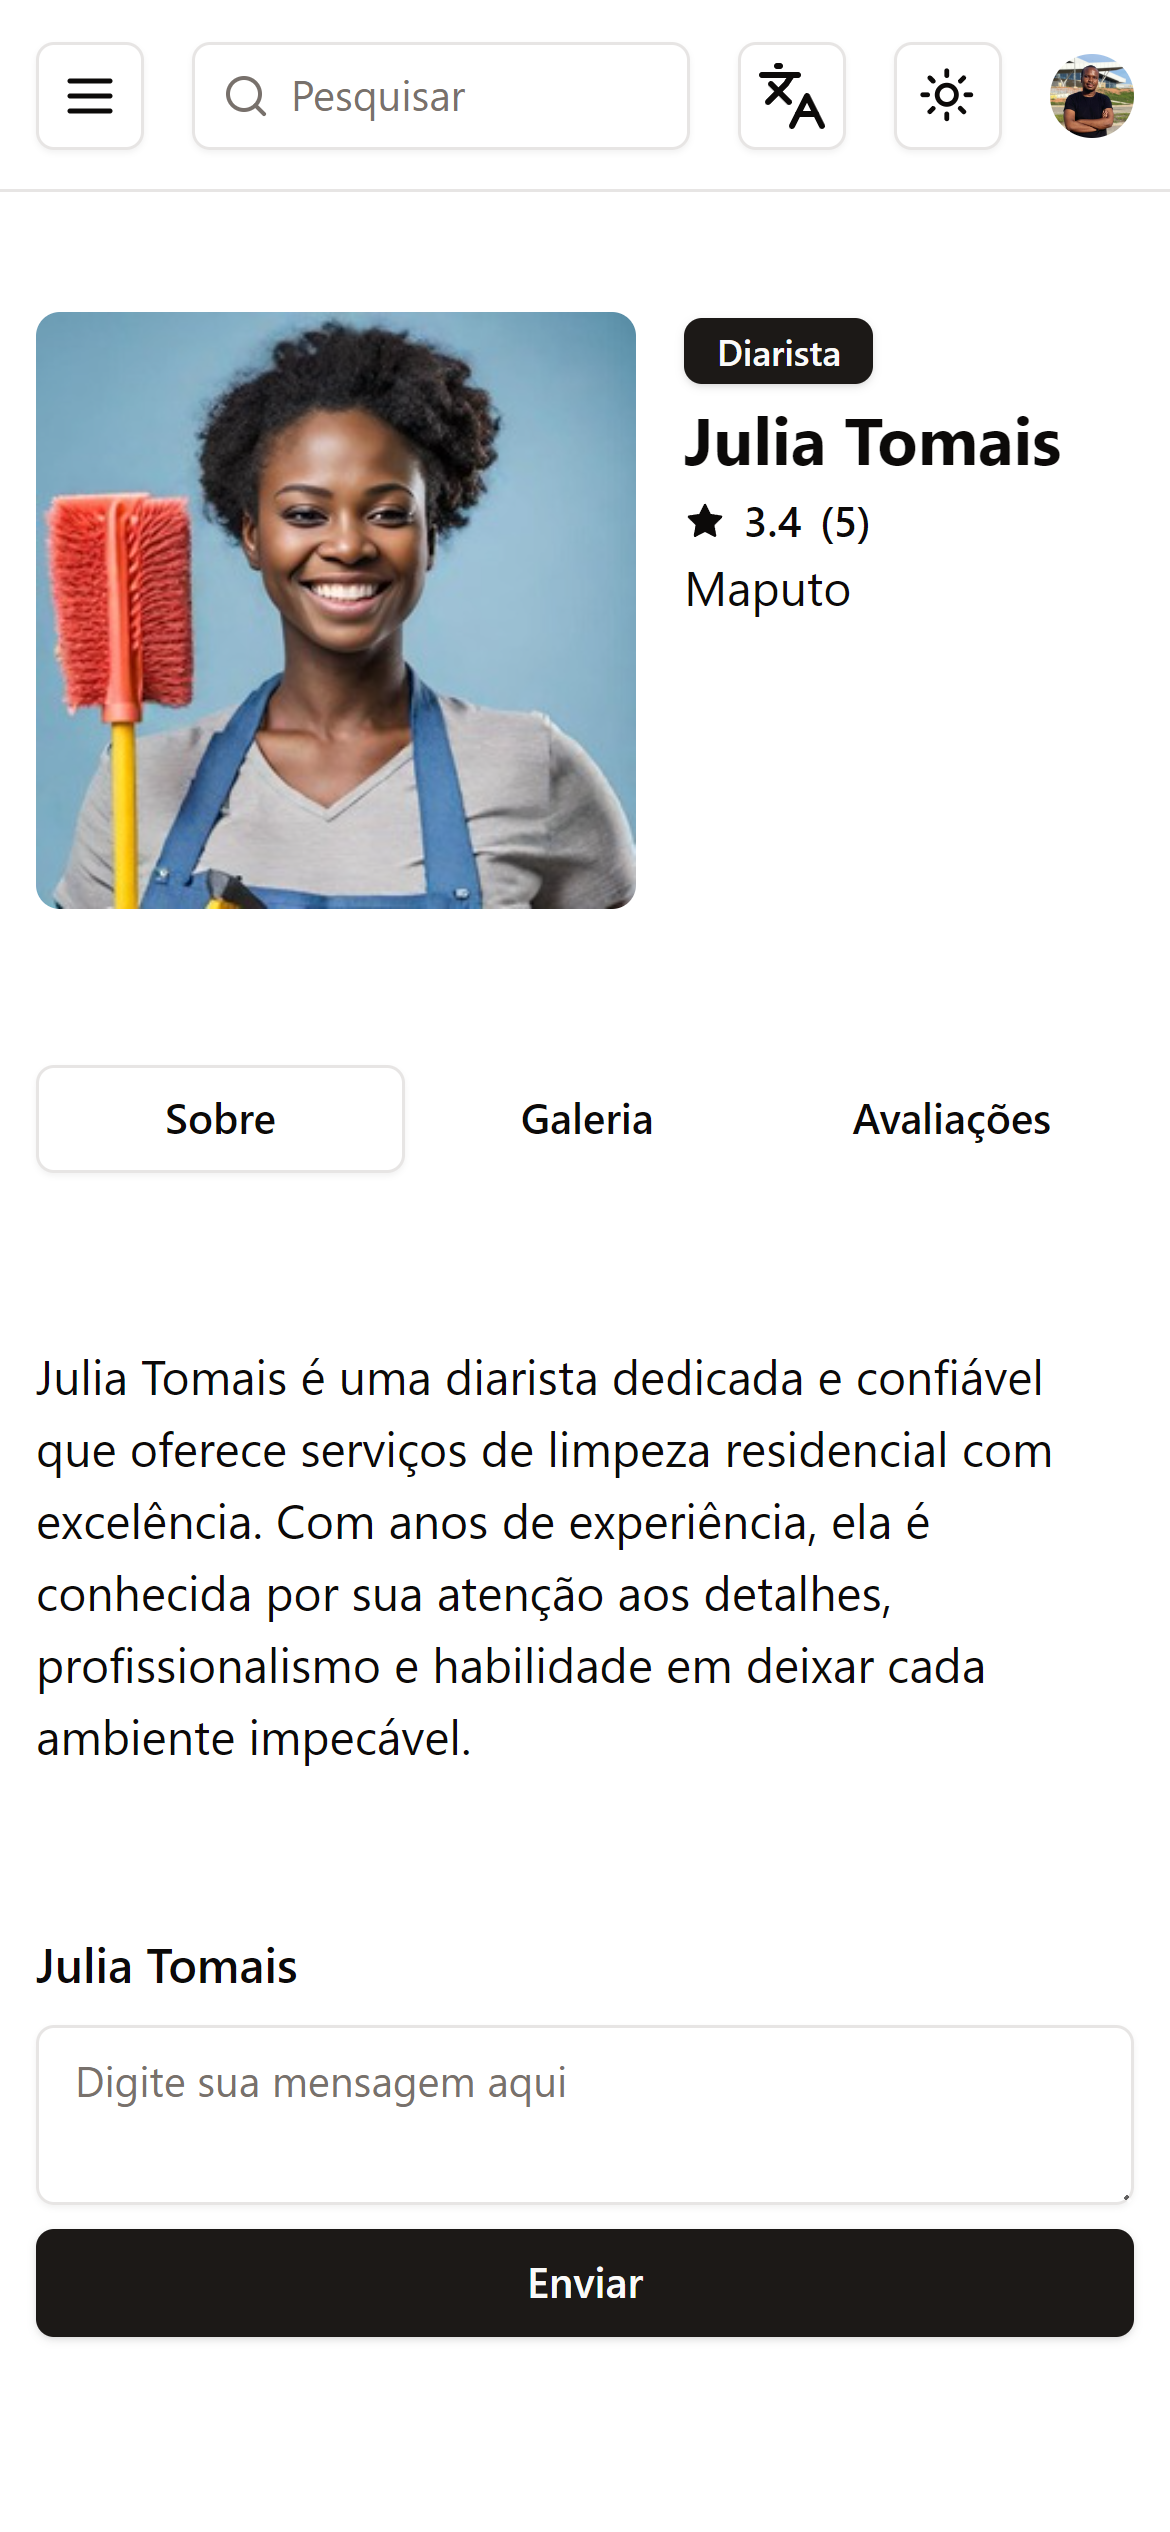
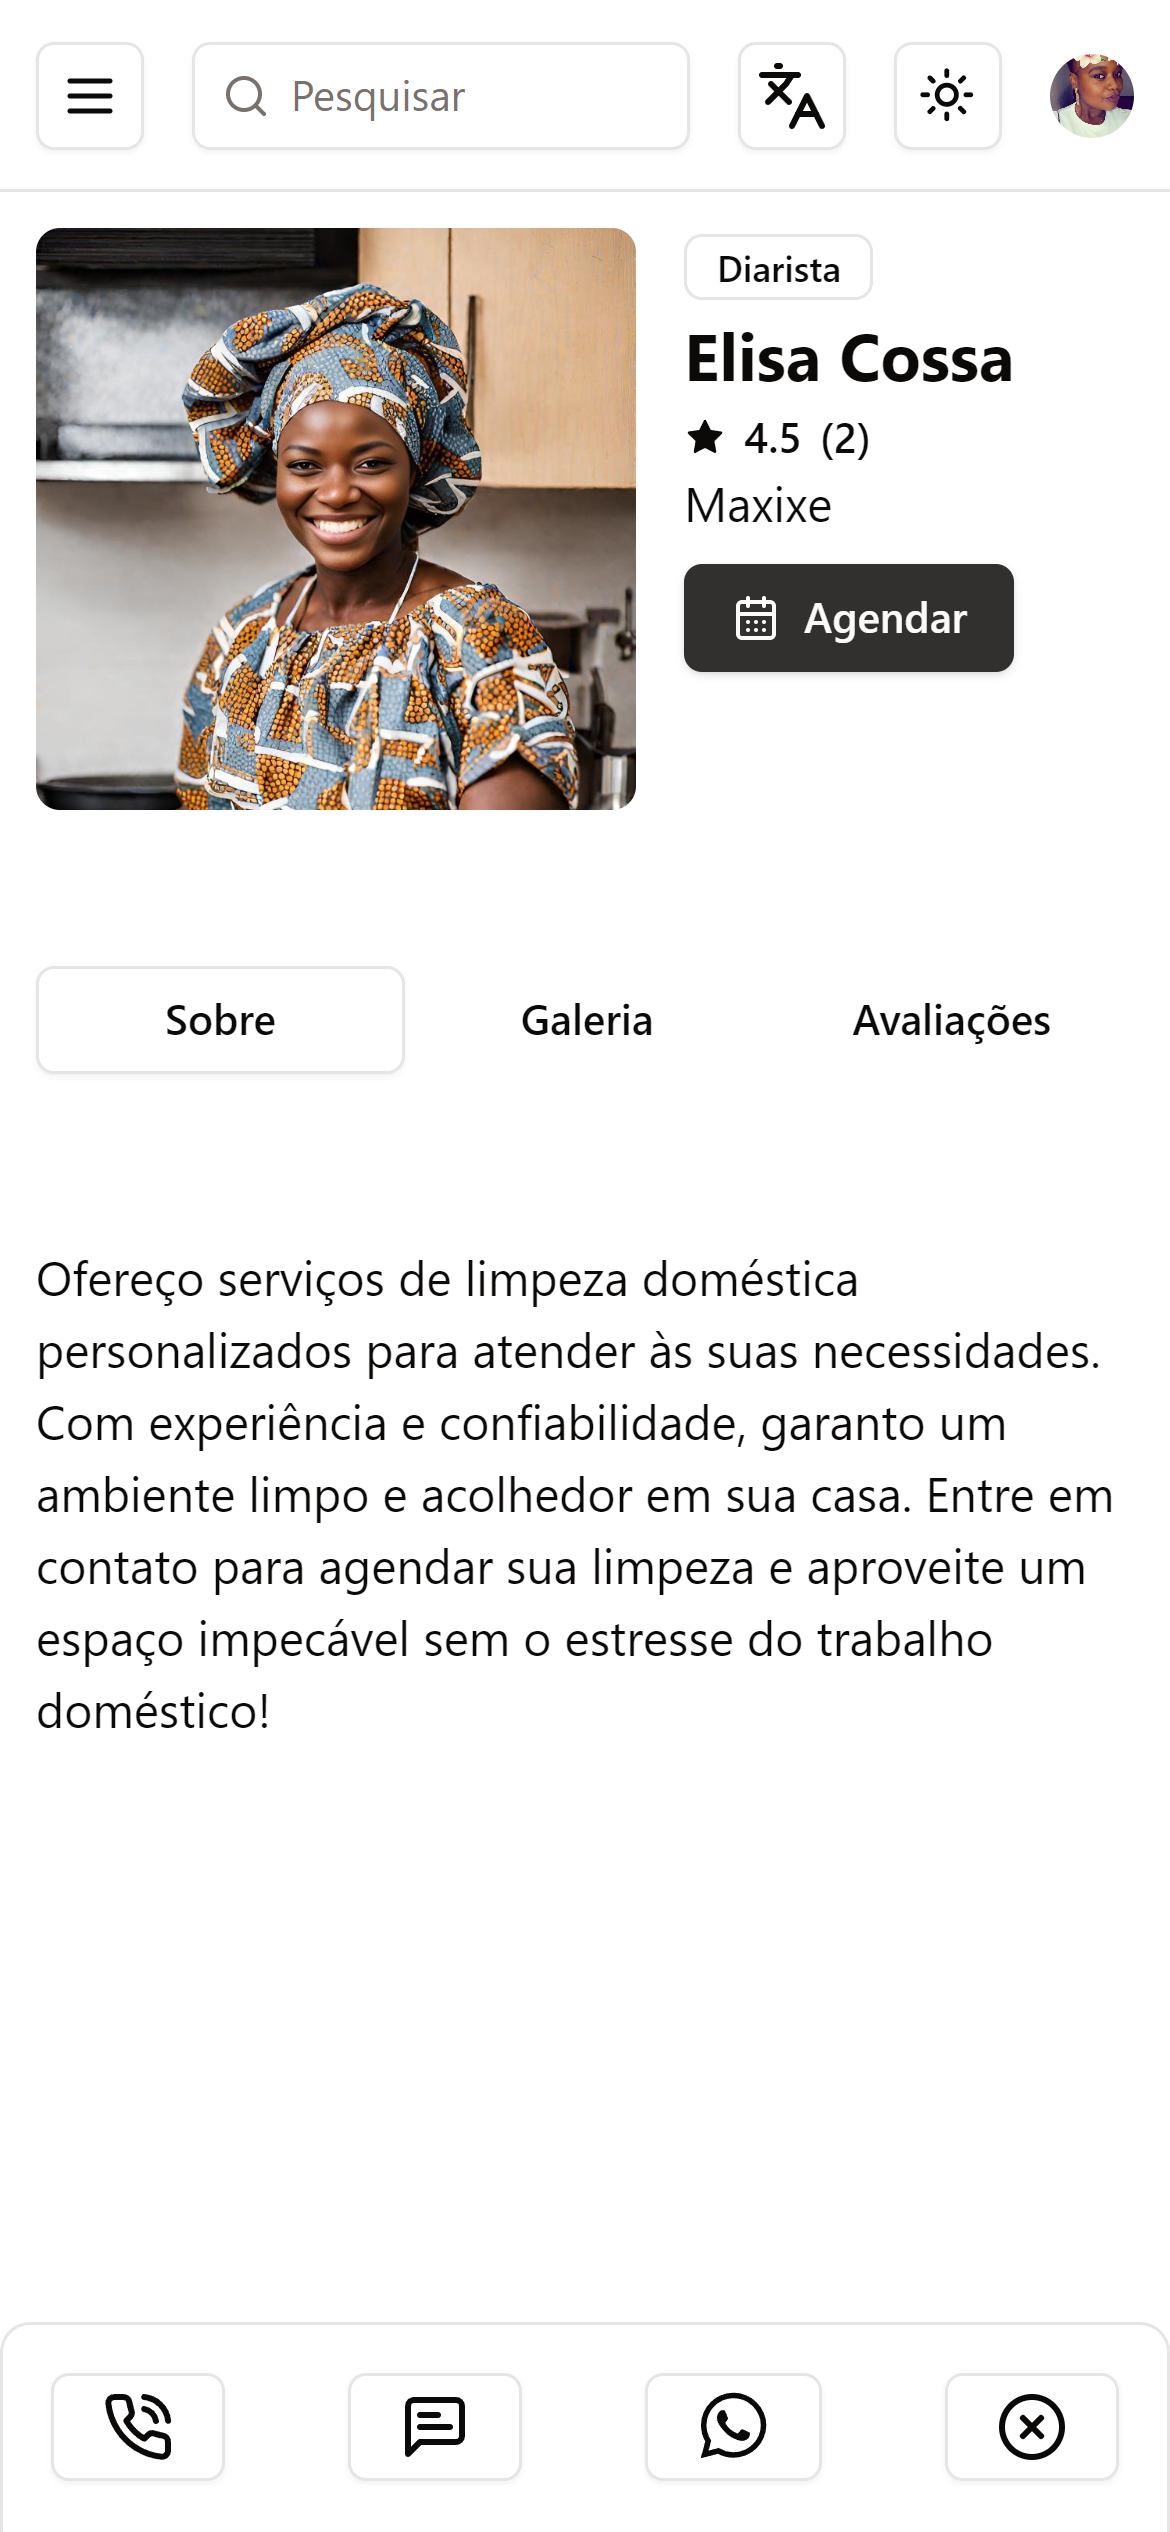
Add IsApproved to the service page

diff --git a/client/src/pages/Service.jsx b/client/src/pages/Service.jsx
@@ -3,7 +3,6 @@ import SwiperCore from "swiper";
 import { useSelector } from "react-redux";
 import { Navigation } from "swiper/modules";
 import "swiper/css/bundle";
-import Booking from "../components/Booking";
 import Tabs from "./Tabs";
 import { Button } from "@/components/ui/button";
 import { Badge } from "@/components/ui/badge";
@@ -22,7 +21,21 @@ import { AiFillStar } from "react-icons/ai";
 import { formateDate } from "@/utils/formateDate";
 import toast from "react-hot-toast";
 import { useTranslation } from "react-i18next";
-import { useParams, useNavigate } from "react-router-dom";
+import { useParams, useNavigate, Link } from "react-router-dom";
+import {
+  Drawer,
+  DrawerClose,
+  DrawerContent,
+  DrawerFooter,
+  DrawerTrigger,
+} from "@/components/ui/drawer";
+import {
+  PhoneCall,
+  MessageSquareText,
+  CircleX,
+  CalendarDays,
+} from "lucide-react";
+import { FaWhatsapp } from "react-icons/fa";
 
 // https://sabe.io/blog/javascript-format-numbers-commas#:~:text=The%20best%20way%20to%20format,format%20the%20number%20with%20commas.
 
@@ -113,8 +126,30 @@ export default function Service() {
       )}
       {service && !loading && !error && (
         <>
+          {service.isApproved === "pending" && (
+            <div className="flex p-4 mb-4 text-yellow-800 bg-yellow-50 rounded-lg max-w-4xl mx-auto mt-2">
+              <svg
+                aria-hidden="true"
+                className="flex-shrink-0 w-5 h-5"
+                fill="currentColor"
+                viewBox="0 0 20 20"
+                xmlns="http://www.w3.org/2000/svg"
+              >
+                <path
+                  fillRule="evenodd"
+                  d="M18 10a8 8 0 11-16 0 8 8 0 0116 0zm-7-4a1 1 0 11-2 0 1 1 0 012 0zM9 9a1 1 0 000
+                  2v3a1 1 0 001 1h1a1 1 0 100-2v-3a1 1 0 00-1-1H9z"
+                  clipRule="evenodd"
+                ></path>
+              </svg>
+
+              <span className="sr-only">Info</span>
+              <div className="ml-3 text-sm font-medium">{t("isApproved")}</div>
+            </div>
+          )}
+
           <div className="lg:col-span-2">
-            <div className="flex flex-col max-w-4xl mx-auto p-3 my-7 gap-4">
+            <div className="flex flex-col max-w-4xl mx-auto p-3 md:my-7 gap-4">
               <div className="flex gap-4 ">
                 <img
                   src={service.coverImg}
@@ -123,7 +158,7 @@ export default function Service() {
                 />
 
                 <div className="">
-                  <Badge>{service.title}</Badge>
+                  <Badge variant="outline">{service.title}</Badge>
 
                   <h3 className="text-[22px] leading-9 font-bold ">
                     {service.name}
@@ -147,6 +182,41 @@ export default function Service() {
                   <p className="text__para font-[15px] lg:max-w-[390px] leading-6">
                     {service.city}
                   </p>
+                  <Drawer>
+                    <DrawerTrigger className="flex mt-2">
+                      <Button onClick={handleBookingClick}>
+                        <CalendarDays className="mr-2 h-4 w-4" />
+                        Agendar
+                      </Button>
+                    </DrawerTrigger>
+                    <DrawerContent>
+                      <DrawerFooter className="flex flex-row justify-between">
+                        <Link to={`tel:${service.phone}`} target="_blank">
+                          <Button variant="outline">
+                            <PhoneCall />
+                          </Button>
+                        </Link>
+                        <Link to={`sms:${service.phone}`} target="_blank">
+                          <Button variant="outline">
+                            <MessageSquareText />
+                          </Button>
+                        </Link>
+                        <Link
+                          to={`http://wa.me/${service.phone}`}
+                          target="_blank"
+                        >
+                          <Button variant="outline">
+                            <FaWhatsapp size={25} />
+                          </Button>
+                        </Link>
+                        <DrawerClose>
+                          <Button variant="outline">
+                            <CircleX />
+                          </Button>
+                        </DrawerClose>
+                      </DrawerFooter>
+                    </DrawerContent>
+                  </Drawer>
                 </div>
               </div>
             </div>
@@ -299,16 +369,6 @@ export default function Service() {
                 </div>
               )}
             </div>
-          </div>
-          {!booking && (
-            <div>
-              <div className="flex flex-col max-w-4xl mx-auto p-3 my-7 gap-4">
-                <Button onClick={handleBookingClick}>{t("booknow")}</Button>
-              </div>
-            </div>
-          )}
-          <div className="flex flex-col max-w-4xl mx-auto p-3 my-7 gap-4">
-            {booking && <Booking service={service} />}
           </div>
         </>
       )}

diff --git a/client/src/pages/Home.jsx b/client/src/pages/Home.jsx
@@ -155,7 +155,7 @@ const Home = () => {
                   {t("reforms")}
                 </h2>
                 <Button variant="link" className="p-0">
-                  <Link className="" to={"/search?category=reforms"}>
+                  <Link className="" to={"/search?category=Reformas"}>
                     {t("showmore")}
                   </Link>
                 </Button>
@@ -175,7 +175,7 @@ const Home = () => {
                   {t("classes")}
                 </h2>
                 <Button variant="link" className="p-0">
-                  <Link className="" to={"/search?category=classes"}>
+                  <Link className="" to={"/search?category=Aulas"}>
                     {t("showmore")}
                   </Link>
                 </Button>
@@ -218,7 +218,7 @@ const Home = () => {
                   {t("events")}
                 </h2>
                 <Button variant="link" className="p-0">
-                  <Link className="" to={"/search?category=events"}>
+                  <Link className="" to={"/search?category=Eventos"}>
                     {t("showmore")}
                   </Link>
                 </Button>

diff --git a/client/src/components/ui/drawer.jsx b/client/src/components/ui/drawer.jsx
@@ -22,7 +22,7 @@ const DrawerClose = DrawerPrimitive.Close
 const DrawerOverlay = React.forwardRef(({ className, ...props }, ref) => (
   <DrawerPrimitive.Overlay
     ref={ref}
-    className={cn("fixed inset-0 z-50 bg-black/80", className)}
+    className={cn("fixed inset-0 z-50 bg-transparent", className)}
     {...props} />
 ))
 DrawerOverlay.displayName = DrawerPrimitive.Overlay.displayName
@@ -33,11 +33,11 @@ const DrawerContent = React.forwardRef(({ className, children, ...props }, ref) 
     <DrawerPrimitive.Content
       ref={ref}
       className={cn(
-        "fixed inset-x-0 bottom-0 z-50 mt-24 flex h-auto flex-col rounded-t-[10px] border bg-background",
+        "max-w-lg mx-auto fixed inset-x-0 bottom-0 z-50 mt-24 flex h-auto flex-col rounded-t-[10px] border bg-background",
         className
       )}
       {...props}>
-      <div className="mx-auto mt-4 h-2 w-[100px] rounded-full bg-muted" />
+      {/* <div className="mx-auto mt-4 h-2 w-[100px] rounded-full bg-muted" /> */}
       {children}
     </DrawerPrimitive.Content>
   </DrawerPortal>

diff --git a/api/controllers/service.controller.js b/api/controllers/service.controller.js
@@ -76,6 +76,7 @@ export const getServices = async (req, res, next) => {
 
     const filter = {
       name: { $regex: searchTerm, $options: "i" },
+      isApproved: "approved",
     };
 
     if (city) {
